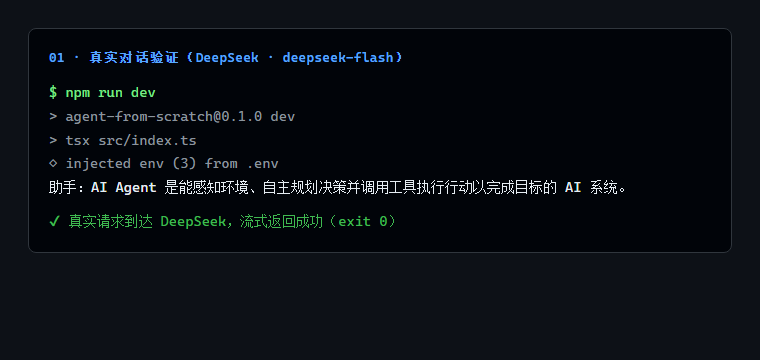
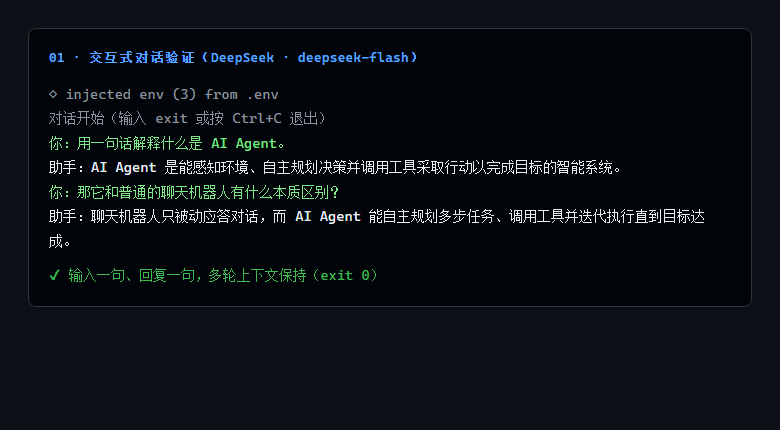
post-01: demo 改为交互式 REPL（输入一句输出一句）+ 博文同步 + 重截交互验证图

diff --git a/src/index.ts b/src/index.ts
@@ -4,10 +4,12 @@ import dotenv from "dotenv";
 dotenv.config({ override: true });
 import { LLMClient } from "./llm/index.js";
 import type { Message } from "./llm/types.js";
+import * as readline from "node:readline";
 
 /**
- * 第 1 篇配套 demo：跑通一次流式对话。
- * 真正的 Agent 循环在篇 3 才出现，这里先验证「模型能对话」这条最短路。
+ * 第 1 篇配套 demo：交互式对话 REPL。
+ * 终端输入一句，模型流式回复一句；多轮上下文累积在 messages 里。
+ * 真正的 Agent 循环在篇 3 才出现，这里先验证「多轮对话」这条最短路。
  */
 async function main(): Promise<void> {
   const apiKey = process.env.OPENAI_API_KEY;
@@ -22,16 +24,70 @@ async function main(): Promise<void> {
     model: process.env.MODEL ?? "gpt-4o-mini",
   });
 
+  // system 设定人设；之后每轮 user/assistant 交替追加，构成多轮上下文。
   const messages: Message[] = [
-    { role: "system", content: "你是一个简洁的中文助手，回答不超过两句话。" },
-    { role: "user", content: "用一句话解释什么是 AI Agent。" },
+    { role: "system", content: "你是一个简洁的中文助手，每轮回答不超过三句话。" },
   ];
 
-  process.stdout.write("助手：");
-  for await (const chunk of client.chatStream(messages)) {
-    process.stdout.write(chunk);
+  const rl = readline.createInterface({ input: process.stdin, terminal: false });
+  // 用 line 事件 + 队列，避免 question 在异步 await 期间因管道 EOF 关闭而抛 ERR_USE_AFTER_CLOSE。
+  const queue: string[] = [];
+  let resolveNext: ((value: string | null) => void) | null = null;
+  let eof = false;
+  rl.on("line", (line) => {
+    if (resolveNext) {
+      const r = resolveNext;
+      resolveNext = null;
+      r(line);
+    } else {
+      queue.push(line);
+    }
+  });
+  rl.on("close", () => {
+    eof = true;
+    if (resolveNext) {
+      const r = resolveNext;
+      resolveNext = null;
+      r(null);
+    }
+  });
+
+  const nextLine = (): Promise<string | null> =>
+    new Promise((resolve) => {
+      if (queue.length > 0) {
+        resolve(queue.shift() ?? "");
+        return;
+      }
+      if (eof) {
+        resolve(null);
+        return;
+      }
+      resolveNext = resolve;
+    });
+
+  console.log("对话开始（输入 exit 或按 Ctrl+C 退出）");
+  while (true) {
+    const line = await nextLine();
+    if (line === null) break; // EOF
+    const text = line.trim();
+    if (text === "") continue;
+    if (text === "exit" || text === "quit") break;
+
+    // 非 TTY（管道/重定向）下输入不回显，主动打印用户输入便于阅读。
+    if (!process.stdin.isTTY) console.log(`你：${text}`);
+    messages.push({ role: "user", content: text });
+    process.stdout.write("助手：");
+    let full = "";
+    for await (const chunk of client.chatStream(messages)) {
+      process.stdout.write(chunk);
+      full += chunk;
+    }
+    process.stdout.write("\n");
+    messages.push({ role: "assistant", content: full });
   }
-  process.stdout.write("\n");
+
+  rl.close();
+  console.log("对话结束。");
 }
 
 main().catch((err) => {

diff --git a/posts/01.md b/posts/01.md
@@ -83,13 +83,15 @@ while (true) {
 
 工程上还有两点：依赖锁定为 **零运行时第三方包**（只靠 Node 22 内置 `fetch` 和 `Response` 流），接入 `.env` 的活交给 `dotenv` 在应用入口做，库本身保持纯净。
 
+配套的 `src/index.ts` 是一个交互式 REPL 作为本篇 demo：终端输入一句，模型流式回复一句，`messages` 数组在多轮之间累积上下文。这是后续 Agent Loop 的外壳雏形——先把"多轮对话"跑稳，下一篇再往循环里塞工具调用。
+
 数据流长这样：
 
 ![LLMClient 数据流](assets/01-arch.png)
 
 ## 04 验证：这一章代码做了什么、实现了什么效果
 
-代码位置：`src/llm/LLMClient.ts` + `src/index.ts`（demo）+ `tests/llm.test.ts`。
+代码位置：`src/llm/LLMClient.ts` + `src/index.ts`（交互式对话 REPL demo）+ `tests/llm.test.ts`。
 
 **做了什么**：封装了一层模型无关的对话客户端，支持非流式与流式两种调用，统一错误处理。
 
@@ -106,7 +108,7 @@ while (true) {
 - **坑一：DeepSeek 的 `base_url` 不带 `/v1`**。官方兼容地址是 `https://api.deepseek.com`（模型名 `deepseek-flash`），不是 OpenAI 官方那种 `.../v1`。配错路径会返回 401，已在仓库 `.env.example` 修正。
 - **坑二：dotenv 默认不覆盖已存在的环境变量**。若运行环境（本机终端 / CI / 沙箱）已注入 `OPENAI_API_KEY`，`import "dotenv/config"` 的默认行为是「已存在的变量不覆盖」，`.env` 里的配置会被静默忽略，请求实际打到别的 key 上，表现为 DeepSeek 返回 `api key ... is invalid`。正确做法是入口改用 `dotenv.config({ override: true })`，让本地 `.env` 优先。
 
-修复后用 DeepSeek 端点实测，输出 `◇ injected env (3) from .env` 确认 `.env` 生效，流式返回成功：
+修复后用 DeepSeek 端点实测多轮交互，输出 `◇ injected env (3) from .env` 确认 `.env` 生效，终端输入问题与模型流式回复交替出现，多轮上下文保持：
 
 ![真实对话验证](assets/01-live.png)
 
@@ -114,7 +116,7 @@ while (true) {
 
 ## 05 本篇埋的雷
 
-`src/index.ts` 现在的 demo 是串行的：发一句、收一句、结束。它"会说话"，但**不会做事**——没有循环，模型不能决定下一步，也不能调用任何工具。所有"智能"都停在单次响应里。
+`src/index.ts` 现在是交互式 REPL，能多轮输入、逐句回复，但每一轮仍是「用户说→模型答」的单向补全，**没有** `think → act → observe` 循环，模型不能决定调用工具、看见结果、再决定下一步。所有"智能"都停在单次响应里。
 
 下一篇（Agent Loop）补上 `think → act → observe` 的循环，让模型能自己决定调用工具、看见结果、再决定下一步。那是 Agent 与"高级补全"之间的真正分界线。
 
